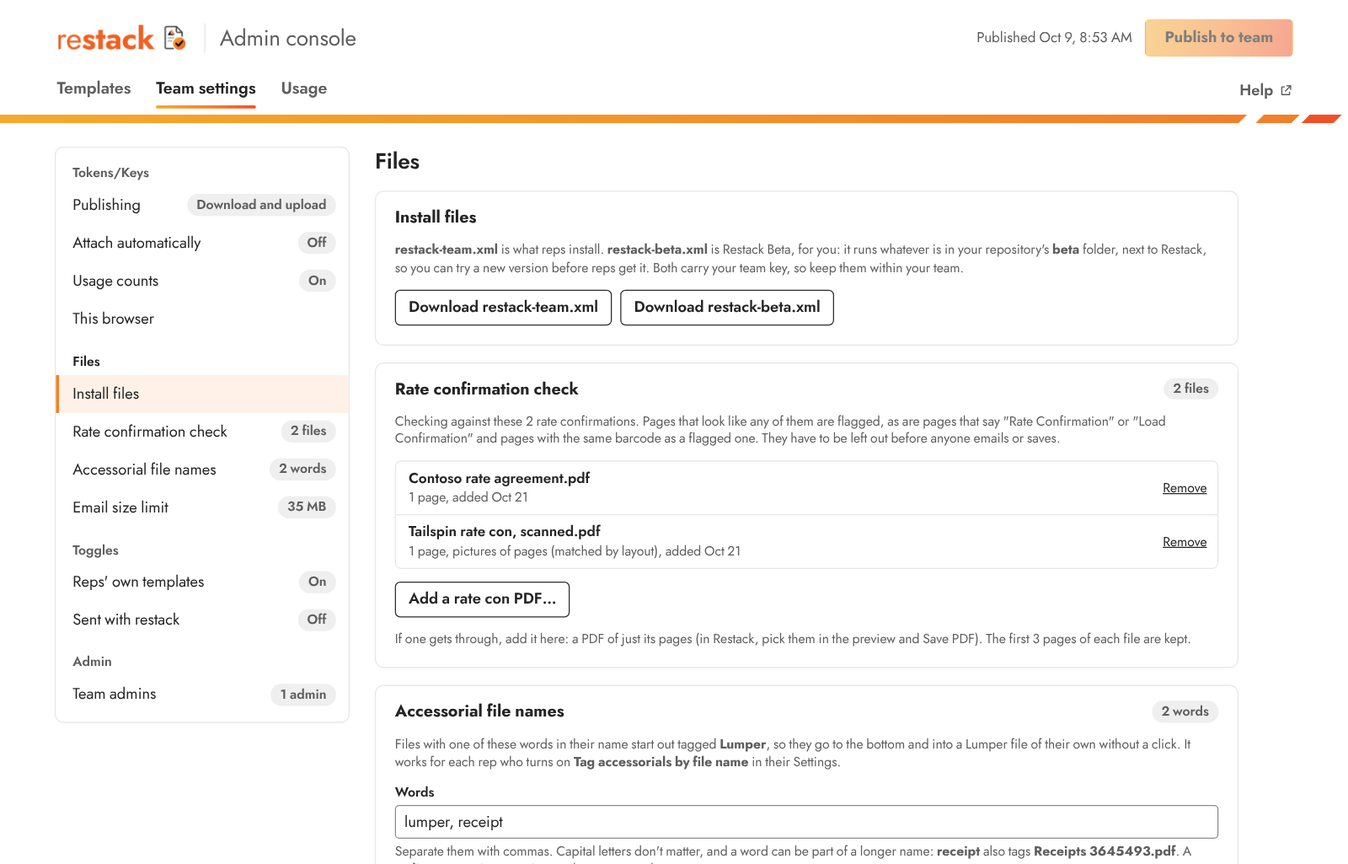
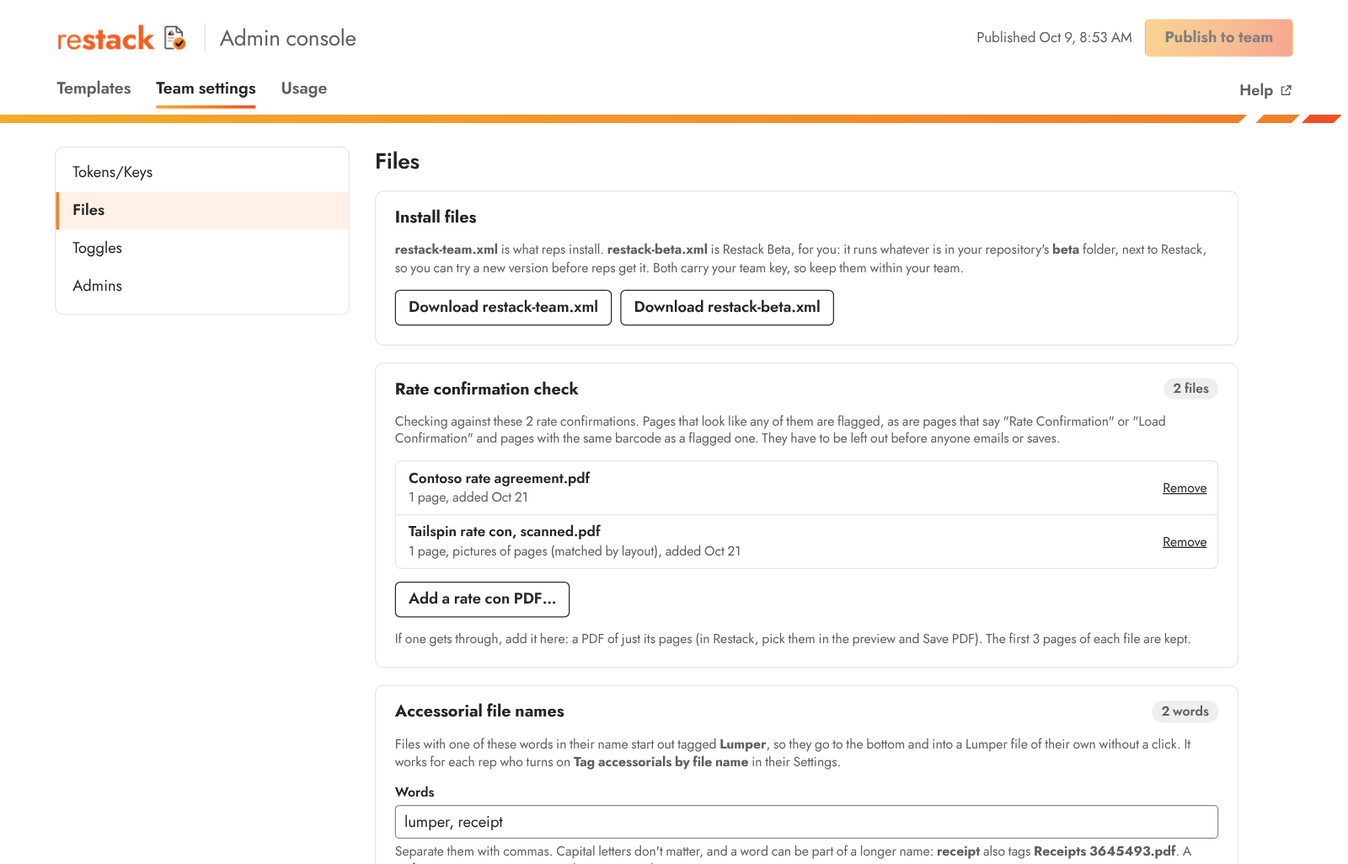
Add files via upload

diff --git a/taskpane.js b/taskpane.js
@@ -6,7 +6,7 @@
  * optional "attach automatically" step, to the team admin's own PDF Emails Azure function.
  */
 
-const VERSION = '0.25.1';
+const VERSION = '0.25.2';
 const SMALL_INLINE_BYTES = 50 * 1024; // logo test for images whose pixel size can't be read
 const LOGO_MAX_SIDE = 400;            // images in the email body this small (in pixels) are logos/icons
 const LOGO_THIN_SIDE = 120;           // ...and so are thin banners
@@ -7120,7 +7120,7 @@ async function onPublish() {
       where = await publishToGithub(text);
     } catch (error) {
       renderConsolePublish();
-      consoleNote(`Couldn't publish to GitHub: ${error.userMessage || error.message}. Nothing changed for your team. (Team settings → Publishing has the token.)`, 'error');
+      consoleNote(`Couldn't publish to GitHub: ${error.userMessage || error.message}. Nothing changed for your team. (Team settings → Tokens/Keys → Publishing has the token.)`, 'error');
       return;
     }
     team.justPublished = true;
@@ -7985,84 +7985,45 @@ function showConsoleTab(tab, focus = true) {
   if (tab === 'usage') loadUsageReport().catch(fail);
 }
 
-// ---- Team settings: four pages (Tokens/Keys, Files, Toggles, Admin), one showing at a time, and a list
-// of them on the left, each setting with how it's set, that shows its page and goes to it
+// ---- Team settings: four pages (Tokens/Keys, Files, Toggles, Admins), one showing at a time, picked by
+// name from the list on the left (a Go to drop-down on a narrow window)
 
 let settingsPage = ''; // the page showing
 
-/**
- * Builds the list (and the drop-down for narrow windows) from the pages and their cards, once, and
- * shows the page you were on last. Each item shows its card's chip (On, Off, 1 admin…), kept in step
- * as the cards change.
- */
+/** Builds the list of pages (and the drop-down for narrow windows), once, and shows the page you were on last. */
 function buildSettingsNav() {
   const list = $('set-nav-list');
   const jump = $('set-jump');
   if (!list || list.childElementCount) return;
   for (const page of document.querySelectorAll('#con-team .set-page')) {
     const title = page.querySelector('.set-page-title').textContent;
-    const group = el('div', 'set-nav-group');
-    group.dataset.page = page.id;
-    const head = el('h3', 'set-nav-head');
-    const open = el('button', 'set-nav-page', title);
+    const open = el('button', 'set-nav-item', title);
     open.type = 'button';
+    open.dataset.page = page.id;
     open.addEventListener('click', () => showSettingsPage(page.id, true));
-    head.append(open);
-    group.append(head);
-    const optgroup = document.createElement('optgroup');
-    optgroup.label = title;
-    for (const card of page.querySelectorAll('.con-card')) {
-      const name = card.querySelector('.con-card-head h3').textContent;
-      const item = el('button', 'set-nav-item');
-      item.type = 'button';
-      item.dataset.card = card.id;
-      item.append(el('span', 'set-nav-name', name), el('span', 'con-chip'));
-      item.addEventListener('click', () => goToSetting(card.id));
-      group.append(item);
-      optgroup.append(new Option(name, card.id));
-    }
-    list.append(group);
-    jump.append(optgroup);
+    list.append(open);
+    jump.append(new Option(title, page.id));
   }
-  jump.addEventListener('change', () => goToSetting(jump.value));
-  syncSettingsNav();
-  // Each item's chip follows its card's, and the switches' On and Off, whenever they change
-  new MutationObserver(() => syncSettingsNav()).observe($('con-team'), { subtree: true, childList: true, characterData: true, attributes: true, attributeFilter: ['aria-checked'] });
-  // On the page showing, the setting in view is marked in the list as you scroll
-  if ('IntersectionObserver' in window) {
-    const seen = new Map();
-    const watch = new IntersectionObserver((entries) => {
-      for (const entry of entries) seen.set(entry.target.id, entry.isIntersecting ? entry.intersectionRatio : 0);
-      if (Date.now() < settingPicked || !$(settingsPage)) return; // (going to a setting picked in the list: it stays marked, even near the bottom)
-      const top = [...$(settingsPage).querySelectorAll('.con-card')].find((card) => (seen.get(card.id) || 0) > 0);
-      if (top) markSetting(top.id);
-    }, { rootMargin: '0px 0px -55% 0px', threshold: [0, 0.01] });
-    for (const card of document.querySelectorAll('#con-team .con-card')) watch.observe(card);
-  }
+  jump.addEventListener('change', () => showSettingsPage(jump.value, true));
+  // The switches' cards say On or Off, whenever they change
+  syncSwitchChips();
+  new MutationObserver(() => syncSwitchChips()).observe($('con-team'), { subtree: true, attributes: true, attributeFilter: ['aria-checked'] });
   const last = readSetting('teamPage');
   showSettingsPage(last && $(last) && $(last).classList.contains('set-page') ? last : 'set-page-keys');
 }
 
-/** Copies each card's chip into its item in the list (the switches' cards say On or Off). */
-function syncSettingsNav() {
-  const on = (id) => $(id) && $(id).getAttribute('aria-checked') === 'true';
-  const chip = (id, text) => {
-    const node = $(id);
+/** The switches' cards (Reps' own templates, Sent with restack) say On or Off. */
+function syncSwitchChips() {
+  for (const [chip, toggle] of [['reps-state', 'con-rep-templates'], ['sent-with-state', 'con-sent-with']]) {
+    const node = $(chip);
+    const text = $(toggle) && $(toggle).getAttribute('aria-checked') === 'true' ? 'On' : 'Off';
     if (node && node.textContent !== text) node.textContent = text;
-  };
-  chip('reps-state', on('con-rep-templates') ? 'On' : 'Off');
-  chip('sent-with-state', on('con-sent-with') ? 'On' : 'Off');
-  for (const item of document.querySelectorAll('#set-nav-list .set-nav-item')) {
-    const source = $(item.dataset.card).querySelector('.con-card-head .con-chip');
-    const target = item.querySelector('.con-chip');
-    const text = source ? source.textContent : '';
-    if (target.textContent !== text) target.textContent = text;
   }
 }
 
 /**
- * Shows one page of Team settings (only that one) and marks it in the list, with its first setting.
- * Opened from the list (`go`): at its top, with the focus on its title.
+ * Shows one page of Team settings (only that one) and marks it in the list. Picked in the list (`go`),
+ * it starts at its top, straight away, with the focus on its title.
  */
 function showSettingsPage(id, go = false) {
   const page = $(id);
@@ -8070,51 +8031,20 @@ function showSettingsPage(id, go = false) {
   settingsPage = id;
   writeSetting('teamPage', id);
   for (const node of document.querySelectorAll('#con-team .set-page')) node.hidden = node !== page;
-  for (const group of document.querySelectorAll('#set-nav-list .set-nav-group')) {
-    const open = group.querySelector('.set-nav-page');
-    if (group.dataset.page === id) open.setAttribute('aria-current', 'page');
-    else open.removeAttribute('aria-current');
-  }
-  const first = page.querySelector('.con-card');
-  if (first) markSetting(first.id);
-  if (!go) return;
-  settingPicked = Date.now() + 600;
-  if (page.getBoundingClientRect().top < 0) page.scrollIntoView({ block: 'start' });
-  page.querySelector('.set-page-title').focus({ preventScroll: true });
-}
-
-/** Marks a setting in the list (and the drop-down) as the one you're at. */
-function markSetting(id) {
   for (const item of document.querySelectorAll('#set-nav-list .set-nav-item')) {
-    if (item.dataset.card === id) item.setAttribute('aria-current', 'true');
+    if (item.dataset.page === id) item.setAttribute('aria-current', 'page');
     else item.removeAttribute('aria-current');
   }
   if ($('set-jump').value !== id) $('set-jump').value = id;
+  if (!go) return;
+  if (page.getBoundingClientRect().top < 0) page.scrollIntoView({ block: 'start', behavior: 'instant' });
+  page.querySelector('.set-page-title').focus({ preventScroll: true });
 }
 
-let settingPicked = 0; // until when the setting picked in the list stays marked while the page scrolls to it
-
-/**
- * Goes to a setting: shows its page, brings its card into view (the page's title too, for the first
- * one), gives it a moment's highlight, and puts the focus on its heading.
- */
+/** Shows the page a setting is on (for the Usage tab's set-up button). */
 function goToSetting(id) {
-  const card = $(id);
-  if (!card) return;
-  const page = card.closest('.set-page');
-  const switching = !!page && page.id !== settingsPage;
-  if (page) showSettingsPage(page.id);
-  markSetting(id);
-  settingPicked = Date.now() + 1500;
-  const smooth = !switching && !reducedMotion();
-  const first = page && page.querySelector('.con-card') === card;
-  (first ? page : card).scrollIntoView({ block: 'start', behavior: smooth ? 'smooth' : 'auto' });
-  card.classList.remove('flash');
-  void card.offsetWidth; // restart the highlight
-  card.classList.add('flash');
-  const heading = card.querySelector('.con-card-head h3');
-  heading.tabIndex = -1;
-  heading.focus({ preventScroll: true });
+  const page = $(id) && $(id).closest('.set-page');
+  if (page) showSettingsPage(page.id, true);
 }
 
 function renderConsole() {
@@ -8509,12 +8439,12 @@ async function loadUsageReport(force = false) {
   const adminKey = usageAdminKey();
   if (!usage) {
     $('us-line').textContent = '';
-    usageEmpty("Usage counts aren't on yet. Set up your Restack Usage function under Team settings → Usage counts, then publish, and each rep's panel starts counting.", 'Set up usage counts');
+    usageEmpty("Usage counts aren't on yet. Set up your Restack Usage function under Team settings → Tokens/Keys → Usage counts, then publish, and each rep's panel starts counting.", 'Set up usage counts');
     return;
   }
   if (!adminKey) {
     $('us-line').textContent = '';
-    usageEmpty('Add your admin key under Team settings → Usage counts to see the numbers here. It stays in this browser.', 'Add the admin key');
+    usageEmpty('Add your admin key under Team settings → Tokens/Keys → Usage counts to see the numbers here. It stays in this browser.', 'Add the admin key');
     return;
   }
   let from = $('us-from').value;

diff --git a/wiki.html b/wiki.html
@@ -449,7 +449,7 @@
       <p>Your reps don't see changes until you publish. The top right of the console says when there are changes they can't see yet.</p>
       <ul>
         <li><strong>Publish to team</strong> downloads <code>team.json</code>. Upload it to your GitHub repository (<strong>Add file → Upload files → Commit changes</strong>).</li>
-        <li>With a GitHub token under <strong>Team settings → Publishing</strong>, it goes straight to GitHub instead.</li>
+        <li>With a GitHub token under <strong>Team settings → Tokens/Keys → Publishing</strong>, it goes straight to GitHub instead.</li>
         <li>Unpublished changes stay in the browser they were made in, so publish soon after editing.</li>
       </ul>
 
@@ -458,7 +458,7 @@
       <figure class="wide"><img src="wiki/console-templates.png" width="760" height="487" alt="The admin console's Templates tab, editing a template" loading="lazy"><figcaption>The Templates tab.</figcaption></figure>
 
       <h3 id="team-settings">Team settings tab</h3>
-      <p>Team settings are on four pages: <strong>Tokens/Keys</strong>, <strong>Files</strong>, <strong>Toggles</strong> and <strong>Admin</strong>. The list on the left has every setting and shows how it's set; click one and its page opens, or click a page's name for the whole page. On a narrow window, the list is a <strong>Go to</strong> drop-down. The console opens on the page you were on last. Changes reach your reps once you publish.</p>
+      <p>Team settings are on four pages: <strong>Tokens/Keys</strong>, <strong>Files</strong>, <strong>Toggles</strong> and <strong>Admins</strong>. Click one in the list on the left to show it (on a narrow window, pick it from <strong>Go to</strong>). Each setting's card says how it's set. The console opens on the page you were on last. Changes reach your reps once you publish.</p>
       <figure class="wide"><img src="wiki/console-team.png" width="760" height="487" alt="The admin console's Team settings tab, on its Files page" loading="lazy"><figcaption>The Team settings tab, on its Files page.</figcaption></figure>
       <h4>Tokens/Keys</h4>
       <dl class="terms">
@@ -479,7 +479,7 @@
         <dt>Reps' own templates</dt><dd>On: reps can make their own templates (Settings → My templates). Off: they use only the team's; their own stay in their Outlook either way.</dd>
         <dt>Sent with restack</dt><dd>On: every email Restack creates, the accessorial email too, ends with a small "sent with restack" line under the message, above the rep's own Outlook signature.</dd>
       </dl>
-      <h4>Admin</h4>
+      <h4>Admins</h4>
       <dl class="terms">
         <dt>Team admins</dt><dd>Everyone on the list gets <strong>Settings → Admin console</strong> in Outlook. Add one by their email address (up to 20); <strong>Remove</strong> takes one off, yourself too, but the last admin stays. To publish, an admin also needs upload access to your GitHub repository.</dd>
       </dl>
@@ -505,7 +505,7 @@
         <li>In Restack, choose <strong>Settings → Admin console</strong>. Add your templates there and choose <strong>Publish to team</strong>.</li>
         <li>Send the same <code>restack-team.xml</code> to your reps.</li>
       </ol>
-      <div class="note"><p>Keep that file. Choosing <strong>Create team install file</strong> again makes a new team key, which can't open the templates you've already published. You can download it again any time from <strong>Team settings → Install files</strong>.</p></div>
+      <div class="note"><p>Keep that file. Choosing <strong>Create team install file</strong> again makes a new team key, which can't open the templates you've already published. You can download it again any time from <strong>Team settings → Files → Install files</strong>.</p></div>
 
       <h3 id="update">Update Restack</h3>
       <ol>
@@ -517,7 +517,7 @@
       <p>A second copy of the add-in, just for you, that runs whatever is in your repository's <code>beta</code> folder. It sits next to Restack in Outlook, so you can try a new version on real emails before your reps get it.</p>
       <ol>
         <li>Once: upload the <code>beta</code> folder (a full copy of Restack) to your repository.</li>
-        <li>Once: in the admin console, choose <strong>Team settings → Install files → Download restack-beta.xml</strong> and install it the same way. It shows up as <strong>Restack Beta</strong>, with a black β on its icon.</li>
+        <li>Once: in the admin console, choose <strong>Team settings → Files → Install files → Download restack-beta.xml</strong> and install it the same way. It shows up as <strong>Restack Beta</strong>, with a black β on its icon.</li>
         <li>Each new version: upload it into the <code>beta</code> folder first and try it. When it's ready, upload the same files to the main folder.</li>
       </ol>
       <p>Restack Beta uses your published templates and team settings. Its own choices (Appearance, Text size, View, the two switches, pinned templates), your own templates and any unpublished changes are kept apart from Restack's. Keep <code>restack-beta.xml</code> to yourself: it carries your team key.</p>

diff --git a/index.html b/index.html
@@ -100,21 +100,21 @@
       <li>Open Restack in Outlook and choose <strong>Settings</strong> (the gear at the bottom) <strong>→ Admin console</strong>. Add your team templates there and click <strong>Publish to team</strong>. Upload the <code>team.json</code> it downloads to this repository (<strong>Add file → Upload files → Commit changes</strong>).</li>
       <li>Send the same <code>restack-team.xml</code> to your reps.</li>
     </ol>
-    <p class="note">Keep that file. Clicking the button again makes a new team key, which can't open templates you've already published. You can download it again any time from the admin console: <strong>Team settings → Install files</strong>. Anyone who has the file can use the add-in and see the team templates, so share it only with your team.</p>
+    <p class="note">Keep that file. Clicking the button again makes a new team key, which can't open templates you've already published. You can download it again any time from the admin console: <strong>Team settings → Files → Install files</strong>. Anyone who has the file can use the add-in and see the team templates, so share it only with your team.</p>
 
     <h2>Updating</h2>
     <ol>
       <li>Upload the new files to this repository, next to the ones already here. Keep the <code>team.json</code> that's already here.</li>
       <li>That's all: everyone gets the new version the next time they open the panel. If it still shows the old one, close and reopen Outlook.</li>
     </ol>
-    <p>Restack used to be called Thread Attachments. It's the same add-in, so your team key and published templates carry over. The ribbon button keeps the old name and icon until the add-in is reinstalled, which is optional. To do it, first publish any template changes you haven't published yet: removing the add-in may also clear what's saved in it, like unpublished changes or a rep's own templates. Then get the install file from the admin console (<strong>Team settings → Install files → Download restack-team.xml</strong>), remove the old add-in and install this one, as above.</p>
+    <p>Restack used to be called Thread Attachments. It's the same add-in, so your team key and published templates carry over. The ribbon button keeps the old name and icon until the add-in is reinstalled, which is optional. To do it, first publish any template changes you haven't published yet: removing the add-in may also clear what's saved in it, like unpublished changes or a rep's own templates. Then get the install file from the admin console (<strong>Team settings → Files → Install files → Download restack-team.xml</strong>), remove the old add-in and install this one, as above.</p>
     <p class="note">Don't use the <strong>Create team install file</strong> button to update. It makes a new team key, which can't open the templates you've already published.</p>
 
     <h2>Try a new version first: Restack Beta</h2>
     <p>Restack Beta is a second copy of the add-in, just for you, that runs whatever is in this repository's <code>beta</code> folder. It sits next to Restack in Outlook, so you can try a new version on real emails before your reps get it.</p>
     <ol>
       <li>Once: upload the <code>beta</code> folder (a full copy of Restack) to this repository, so it sits next to these files.</li>
-      <li>Once: in the admin console, choose <strong>Team settings → Install files → Download restack-beta.xml</strong>, and install the <code>restack-beta.xml</code> it downloads the same way as Restack's. It shows up as <strong>Restack Beta</strong>, with a black β on its icon.</li>
+      <li>Once: in the admin console, choose <strong>Team settings → Files → Install files → Download restack-beta.xml</strong>, and install the <code>restack-beta.xml</code> it downloads the same way as Restack's. It shows up as <strong>Restack Beta</strong>, with a black β on its icon.</li>
       <li>Each new version: upload its files into the <code>beta</code> folder first and try them in Restack Beta. When it's ready, upload the same files to the main folder.</li>
     </ol>
     <p class="muted">Restack Beta uses your published templates and team settings. Its own choices (Appearance, Text size, View, pinned templates) and any template changes you haven't published are kept apart from Restack's. Keep <code>restack-beta.xml</code> to yourself: it carries your team key.</p>

diff --git a/taskpane.css b/taskpane.css
@@ -968,24 +968,17 @@ html.is-console .cust-item input { height: 32px; font-size: 14px; }
   html.is-console .cust-item .icon-btn { grid-column: 3; }
 }
 
-/* Team settings: a list of them on the left (as Templates has its list), and on the right one page of them at a time
-   (Tokens/Keys, Files, Toggles, Admin), each setting in its card */
+/* Team settings: the names of its four pages on the left (Tokens/Keys, Files, Toggles, Admins), and on the right
+   the page picked, each setting in its card */
 .con-settings { display: grid; grid-template-columns: minmax(230px, 280px) minmax(0, 1fr); gap: 24px; align-items: start; }
 .set-nav { position: sticky; top: 16px; max-height: calc(100vh - 32px); overflow: auto; padding: 6px 0 8px; border: 1px solid var(--line); border-radius: 8px; background: var(--surface); }
-.set-nav-head { margin: 0; }
-/* each page's name: shows the page (the one showing in the text's own color) */
-.set-nav-page { display: block; width: 100%; padding: 10px 16px 4px; border: 0; background: none; color: var(--muted); font: inherit; font-size: 12px; font-weight: 600; text-align: left; cursor: pointer; }
-.set-nav-page:hover, .set-nav-page[aria-current="page"] { color: var(--fg); }
-.set-nav-page:focus-visible { outline: 2px solid var(--accent); outline-offset: -2px; }
-.set-nav-group + .set-nav-group { margin-top: 4px; }
 .set-nav-item {
   display: flex; align-items: center; justify-content: space-between; gap: 10px; width: 100%; min-height: 36px; padding: 6px 12px 6px 16px;
   border: 0; background: none; color: var(--fg); font: inherit; font-size: 14px; text-align: left; cursor: pointer;
 }
 .set-nav-item:hover { background: var(--hover); }
-.set-nav-item[aria-current="true"] { background: var(--accent-soft); box-shadow: inset 3px 0 0 var(--g2); }
+.set-nav-item[aria-current="page"] { background: var(--accent-soft); box-shadow: inset 3px 0 0 var(--g2); font-weight: 600; }
 .set-nav-item:focus-visible { outline: 2px solid var(--accent); outline-offset: -2px; }
-.set-nav-item .con-chip { flex: none; }
 .set-jump { display: none; align-items: center; gap: 10px; font-size: 13px; font-weight: 600; color: var(--muted); }
 .set-jump select { flex: 1; min-width: 0; height: 36px; padding: 0 8px; border: 1px solid var(--field-line); border-radius: 5px; background: var(--surface); color: var(--fg); font: inherit; font-size: 14px; }
 .con-cards { max-width: 820px; min-width: 0; }
@@ -994,9 +987,6 @@ html.is-console .cust-item input { height: 32px; font-size: 14px; }
 .set-page-title:focus { outline: none; }
 .con-card { scroll-margin-top: 16px; }
 .size-field input { max-width: 140px; }
-.con-card.flash { animation: card-flash 1.4s ease-out; }
-@keyframes card-flash { 0%, 30% { box-shadow: 0 0 0 2px var(--g2); } 100% { box-shadow: 0 0 0 2px transparent; } }
-@media (prefers-reduced-motion: reduce) { .con-card.flash { animation: none; } }
 @media (max-width: 900px) {
   .con-settings { grid-template-columns: minmax(0, 1fr); gap: 16px; }
   .set-nav { position: static; max-height: none; padding: 0; border: 0; background: none; overflow: visible; }

diff --git a/taskpane.html b/taskpane.html
@@ -5,16 +5,16 @@
   <meta name="viewport" content="width=device-width, initial-scale=1">
   <title>Restack</title>
   <!-- Which version this page is (taskpane.js reloads the page once if it was kept from an older one) -->
-  <meta name="restack-version" content="0.25.1">
+  <meta name="restack-version" content="0.25.2">
   <!-- light or dark before anything shows, so the panel doesn't flash white in dark mode -->
-  <script src="mode.js?v=0.25.1"></script>
+  <script src="mode.js?v=0.25.2"></script>
   <script src="https://appsforoffice.microsoft.com/lib/1/hosted/office.js"></script>
   <script src="pdf-lib.min.js"></script>
   <script src="pako_inflate.min.js"></script>
   <script src="UTIF.js"></script>
   <!-- ?v= makes Outlook load the matching versions after an update -->
-  <link rel="stylesheet" href="taskpane.css?v=0.25.1">
-  <script type="module" src="taskpane.js?v=0.25.1"></script>
+  <link rel="stylesheet" href="taskpane.css?v=0.25.2">
+  <script type="module" src="taskpane.js?v=0.25.2"></script>
 </head>
 <body>
   <svg class="svg-defs" width="0" height="0" aria-hidden="true" focusable="false"><defs><linearGradient id="pin-fill" x1="0" y1="0" x2="1" y2="1"><stop offset="0" stop-color="#f5aa2b"/><stop offset=".55" stop-color="#f37f29"/><stop offset="1" stop-color="#f05026"/></linearGradient></defs></svg>
@@ -597,9 +597,8 @@
       <section id="con-templates" class="con-panel" role="tabpanel" aria-labelledby="con-tab-templates" hidden></section>
 
       <section id="con-team" class="con-panel" role="tabpanel" aria-labelledby="con-tab-team" hidden>
-        <!-- The settings on four pages (Tokens/Keys, Files, Toggles, Admin), one showing at a time: the list
-             on the left (a drop-down on a narrow window) shows each page when one of its settings is picked,
-             and how each setting is set -->
+        <!-- The settings on four pages (Tokens/Keys, Files, Toggles, Admins), one showing at a time: the list
+             on the left (a drop-down on a narrow window) has their names, and shows the page picked -->
         <div class="con-settings">
           <nav id="set-nav" class="set-nav" aria-label="Team settings">
             <label class="set-jump"><span>Go to</span><select id="set-jump"></select></label>
@@ -701,8 +700,8 @@
                 </div>
               </article>
             </section>
-            <section id="set-page-admin" class="set-page" aria-labelledby="set-page-admin-title" hidden>
-              <h2 id="set-page-admin-title" class="set-page-title" tabindex="-1">Admin</h2>
+            <section id="set-page-admins" class="set-page" aria-labelledby="set-page-admins-title" hidden>
+              <h2 id="set-page-admins-title" class="set-page-title" tabindex="-1">Admins</h2>
               <article class="con-card" data-section="admins-section" id="con-card-admins">
                 <header class="con-card-head"><h3>Team admins</h3><span id="admins-state" class="con-chip"></span></header>
                 <div class="con-card-body"></div>

diff --git a/README.md b/README.md
@@ -6,11 +6,11 @@ An Outlook add-in that lists every attachment in an email thread, lets you previ
 
 ## Install
 
-Open this repository's GitHub Pages site (the address shown under **Settings → Pages**). The team admin creates a team install file there once, installs it, adds the team templates in the admin console (in Restack: **Settings → Admin console**) and publishes them, then sends the install file to reps. Teams that already use Thread Attachments get the new install file from the admin console instead (**Team settings → Install files**), which keeps the team key.
+Open this repository's GitHub Pages site (the address shown under **Settings → Pages**). The team admin creates a team install file there once, installs it, adds the team templates in the admin console (in Restack: **Settings → Admin console**) and publishes them, then sends the install file to reps. Teams that already use Thread Attachments get the new install file from the admin console instead (**Team settings → Files → Install files**), which keeps the team key.
 
 The site's wiki (`wiki.html`, with its pictures in the `wiki` folder) explains every feature, how to use it and how to install, for reps and team admins. Restack opens it from **Settings → Help**, the admin console from its **Help** link, and the install page links to it.
 
-To try a new version before reps get it, put it in the repository's `beta` folder and use **Restack Beta** (the admin console's **Team settings → Install files → restack-beta.xml**), which installs next to Restack and runs whatever is in that folder.
+To try a new version before reps get it, put it in the repository's `beta` folder and use **Restack Beta** (the admin console's **Team settings → Files → Install files → restack-beta.xml**), which installs next to Restack and runs whatever is in that folder.
 
 ## What it does
 
@@ -44,7 +44,7 @@ To try a new version before reps get it, put it in the repository's `beta` folde
 - Team admins: everyone on the admin list gets Settings → Admin console in Outlook. Add or remove admins on the admin console's Team settings tab, then publish. To publish what they change, an admin also needs upload access to this repository.
 - Sent with restack (a team setting, off to start): every email Restack creates, the accessorial email too, ends with a small "sent with restack" line under the message, above the rep's own Outlook signature. It's a picture from this site (`sent-with-restack.png`) that Outlook attaches inside the email, so it shows without a "download pictures" prompt and looks the same in every mail app.
 - Template form (in the admin console and My templates): in four groups, each under its heading: Email (name, To, CC, message), Accessorials (Accessorial Only, No Lumper, Accessorials in their own file, Accessorials in a separate email), PDF (its name, and stop files) and Questions. In the admin console, Save template stays in sight at the bottom of the window.
-- Admin console (console.html, opened from Settings → Admin console in Outlook): the only place the team's templates and settings are made. Team settings is on four pages, one showing at a time: Tokens/Keys (Publishing, Attach automatically, Usage counts, This browser), Files (Install files, Rate confirmation check, Accessorial file names, Email size limit), Toggles (Reps' own templates, Sent with restack) and Admin (Team admins). The list on the left has every setting and how it's set, and opens its page; on a narrow window it's a Go to drop-down. The console opens on the page you were on last. Help, by the tabs, opens the wiki. Full size in a browser, publishing straight to GitHub with an optional token, and a Usage tab. With nothing published yet, it starts a new team, with whoever opened it as its admin. Before 0.22 admins could change team templates in Outlook too: publish any changes left there before updating, since Outlook can't publish them any more.
+- Admin console (console.html, opened from Settings → Admin console in Outlook): the only place the team's templates and settings are made. Team settings is on four pages, one showing at a time: Tokens/Keys (Publishing, Attach automatically, Usage counts, This browser), Files (Install files, Rate confirmation check, Accessorial file names, Email size limit), Toggles (Reps' own templates, Sent with restack) and Admins (Team admins). The list on the left has the pages' names and shows the one picked; on a narrow window it's a Go to drop-down. The console opens on the page you were on last. Help, by the tabs, opens the wiki. Full size in a browser, publishing straight to GitHub with an optional token, and a Usage tab. With nothing published yet, it starts a new team, with whoever opened it as its admin. Before 0.22 admins could change team templates in Outlook too: publish any changes left there before updating, since Outlook can't publish them any more.
 - Usage counts: with the admin's Restack Usage Azure function (its own Function App, kept outside this site), each panel counts the PDFs saved, emails created, files, pages and rate cons caught, shown on the console's Usage tab by day, rep and template. An email for the same load and template counts once a day, however many times it's created. Time saved uses minutes per email created (3 to start) and per PDF saved (1 to start), set on the Usage tab.
 - Optional automatic attaching: with the team admin's PDF Emails Azure function (its own Function App, kept outside this site), Create email opens with the PDF already attached.
 
